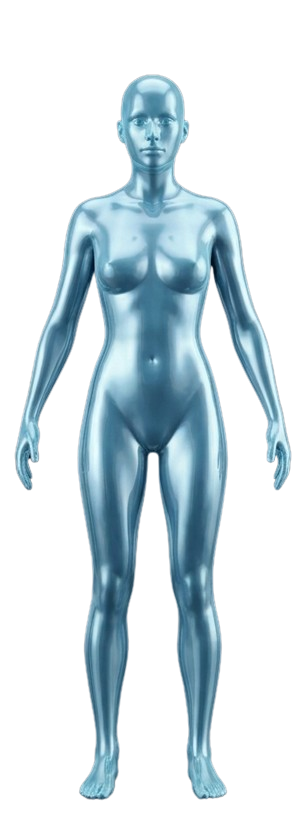
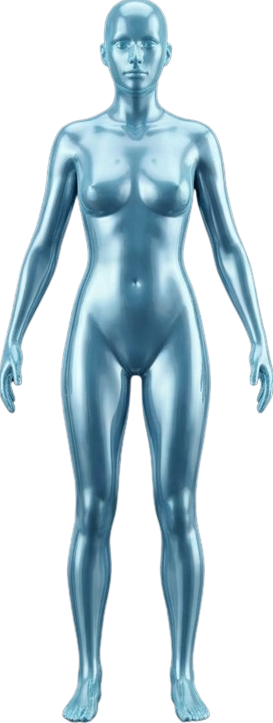
Add files via upload

diff --git a/index.html b/index.html
@@ -236,7 +236,7 @@
 <!-- ================= МЕНЮ ================= -->
 <nav>
   <div class="navin">
-    <a class="brand disp" href="#top"><span class="nb">NB</span><span class="method">METHOD</span></a>
+    <a class="brand disp" href="#top"><img src="images/logo-small.webp" /></a>
     <div class="menu">
       <a href="#categories">Планове</a>
       <a href="#kontakt">Контакт</a>
@@ -250,8 +250,8 @@
   <div class="wrap">
     <div class="kicker disp" style="margin-bottom:12px">NB METHOD · TRAIN SMART. NOT HARD.</div>
     <h1 class="disp">Спри да започваш<br>отначало<span class="dot">.</span></h1>
-    <p>Не ти трябва поредната доза мотивация. Трябва ти система, изградена около <strong>твоето тяло, твоя график, твоята цел и нивото, на което тренираш.</strong></p>
-    <p style="margin-top:-18px;font-size:14px;opacity:.9">От първа тренировка до състезателна подготовка · един Method, различно ниво</p>
+    <p>Не ти трябва поредната доза мотивация. Трябва ти система, изградена около <strong style="color:var(--orange)">твоето тяло, твоя график, твоята цел и нивото, на което тренираш.</strong></p>
+    <p style="margin-top:-18px;font-size:14px;opacity:.9">От първа тренировка до състезателна подготовка · един <strong style="color:#FFD1AE">METHOD</strong>, различно ниво</p>
     <a class="btn orange disp" href="#categories">Избери своя Method</a>
   </div>
 </header>

diff --git a/app.html b/app.html
@@ -287,8 +287,8 @@
 <!-- ============ ЕКРАН: ВХОД ============ -->
 <div id="screen-login">
   <div class="card login">
-    <div class="logo disp" style="display:inline-block;margin-bottom:14px">NB</div>
-    <h1 class="disp">NB Method</h1>
+   <a class="brand disp" href="#top"><img src="images/logo-big.webp" /></a>
+    <!--<h1 class="disp">NB Method</h1>-->
     <p>Твоята система за тренировки, хранене и реален коучинг.</p>
     <label for="email">Имейл</label>
     <input id="email" type="email" autocomplete="email">
@@ -304,7 +304,7 @@
 <header>
   <div class="hwrap">
     <div style="display:flex;align-items:center;gap:12px">
-      <div class="brandmark"><span class="brand-nb">NB</span><span class="brand-method">METHOD</span></div>
+      <a class="brand disp" href="#top"><img src="images/logo-big.webp" /></a>
       <div><div style="font-size:12px;opacity:.65" id="coachname"></div></div>
     </div>
     <div style="text-align:right">
@@ -966,7 +966,7 @@ function openResultsWindow(){
   }).join("");
 
   const bodyDir = location.href.split("/").slice(0, -1).join("/");
-  const bodyImg = bodyDir + "/body-" + ((me.gender === "male" || me.gender === "other") ? me.gender : "female") + ".png";
+  const bodyImg = bodyDir + "../images/body-" + ((me.gender === "male" || me.gender === "other") ? me.gender : "female") + ".webp";
   
 
   const pts = logs.filter(p => p.weight_kg != null);
